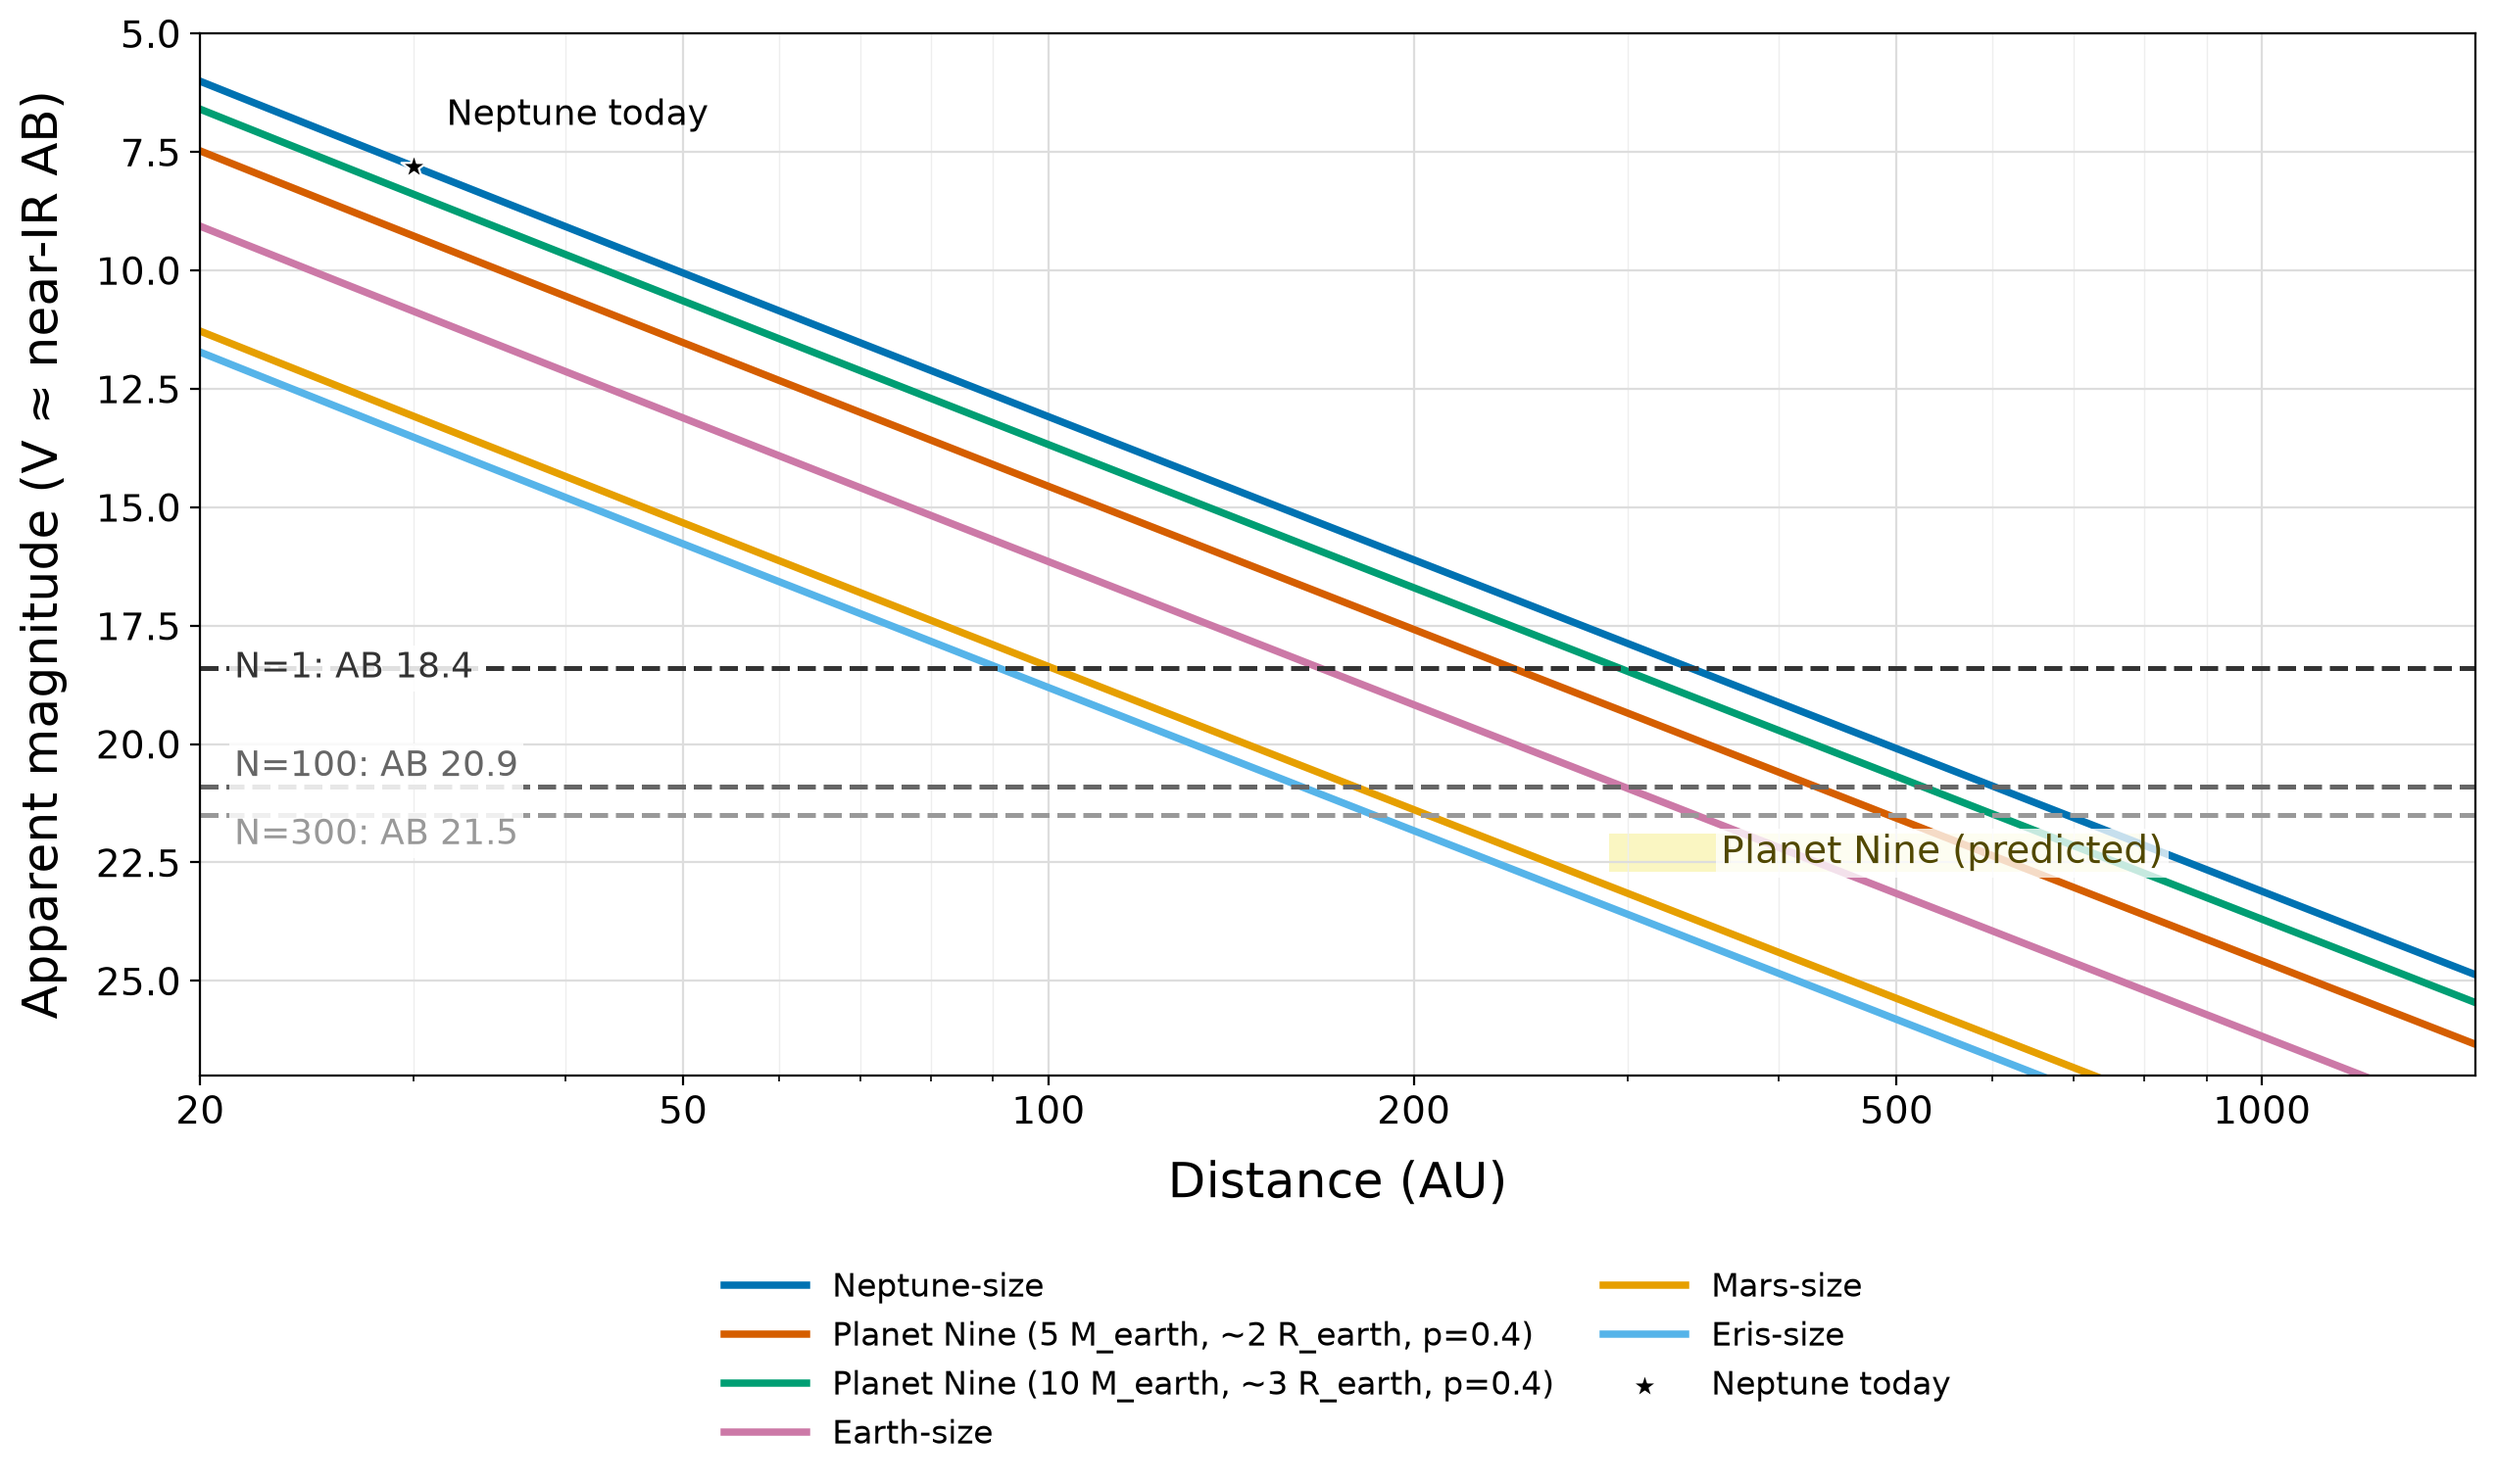
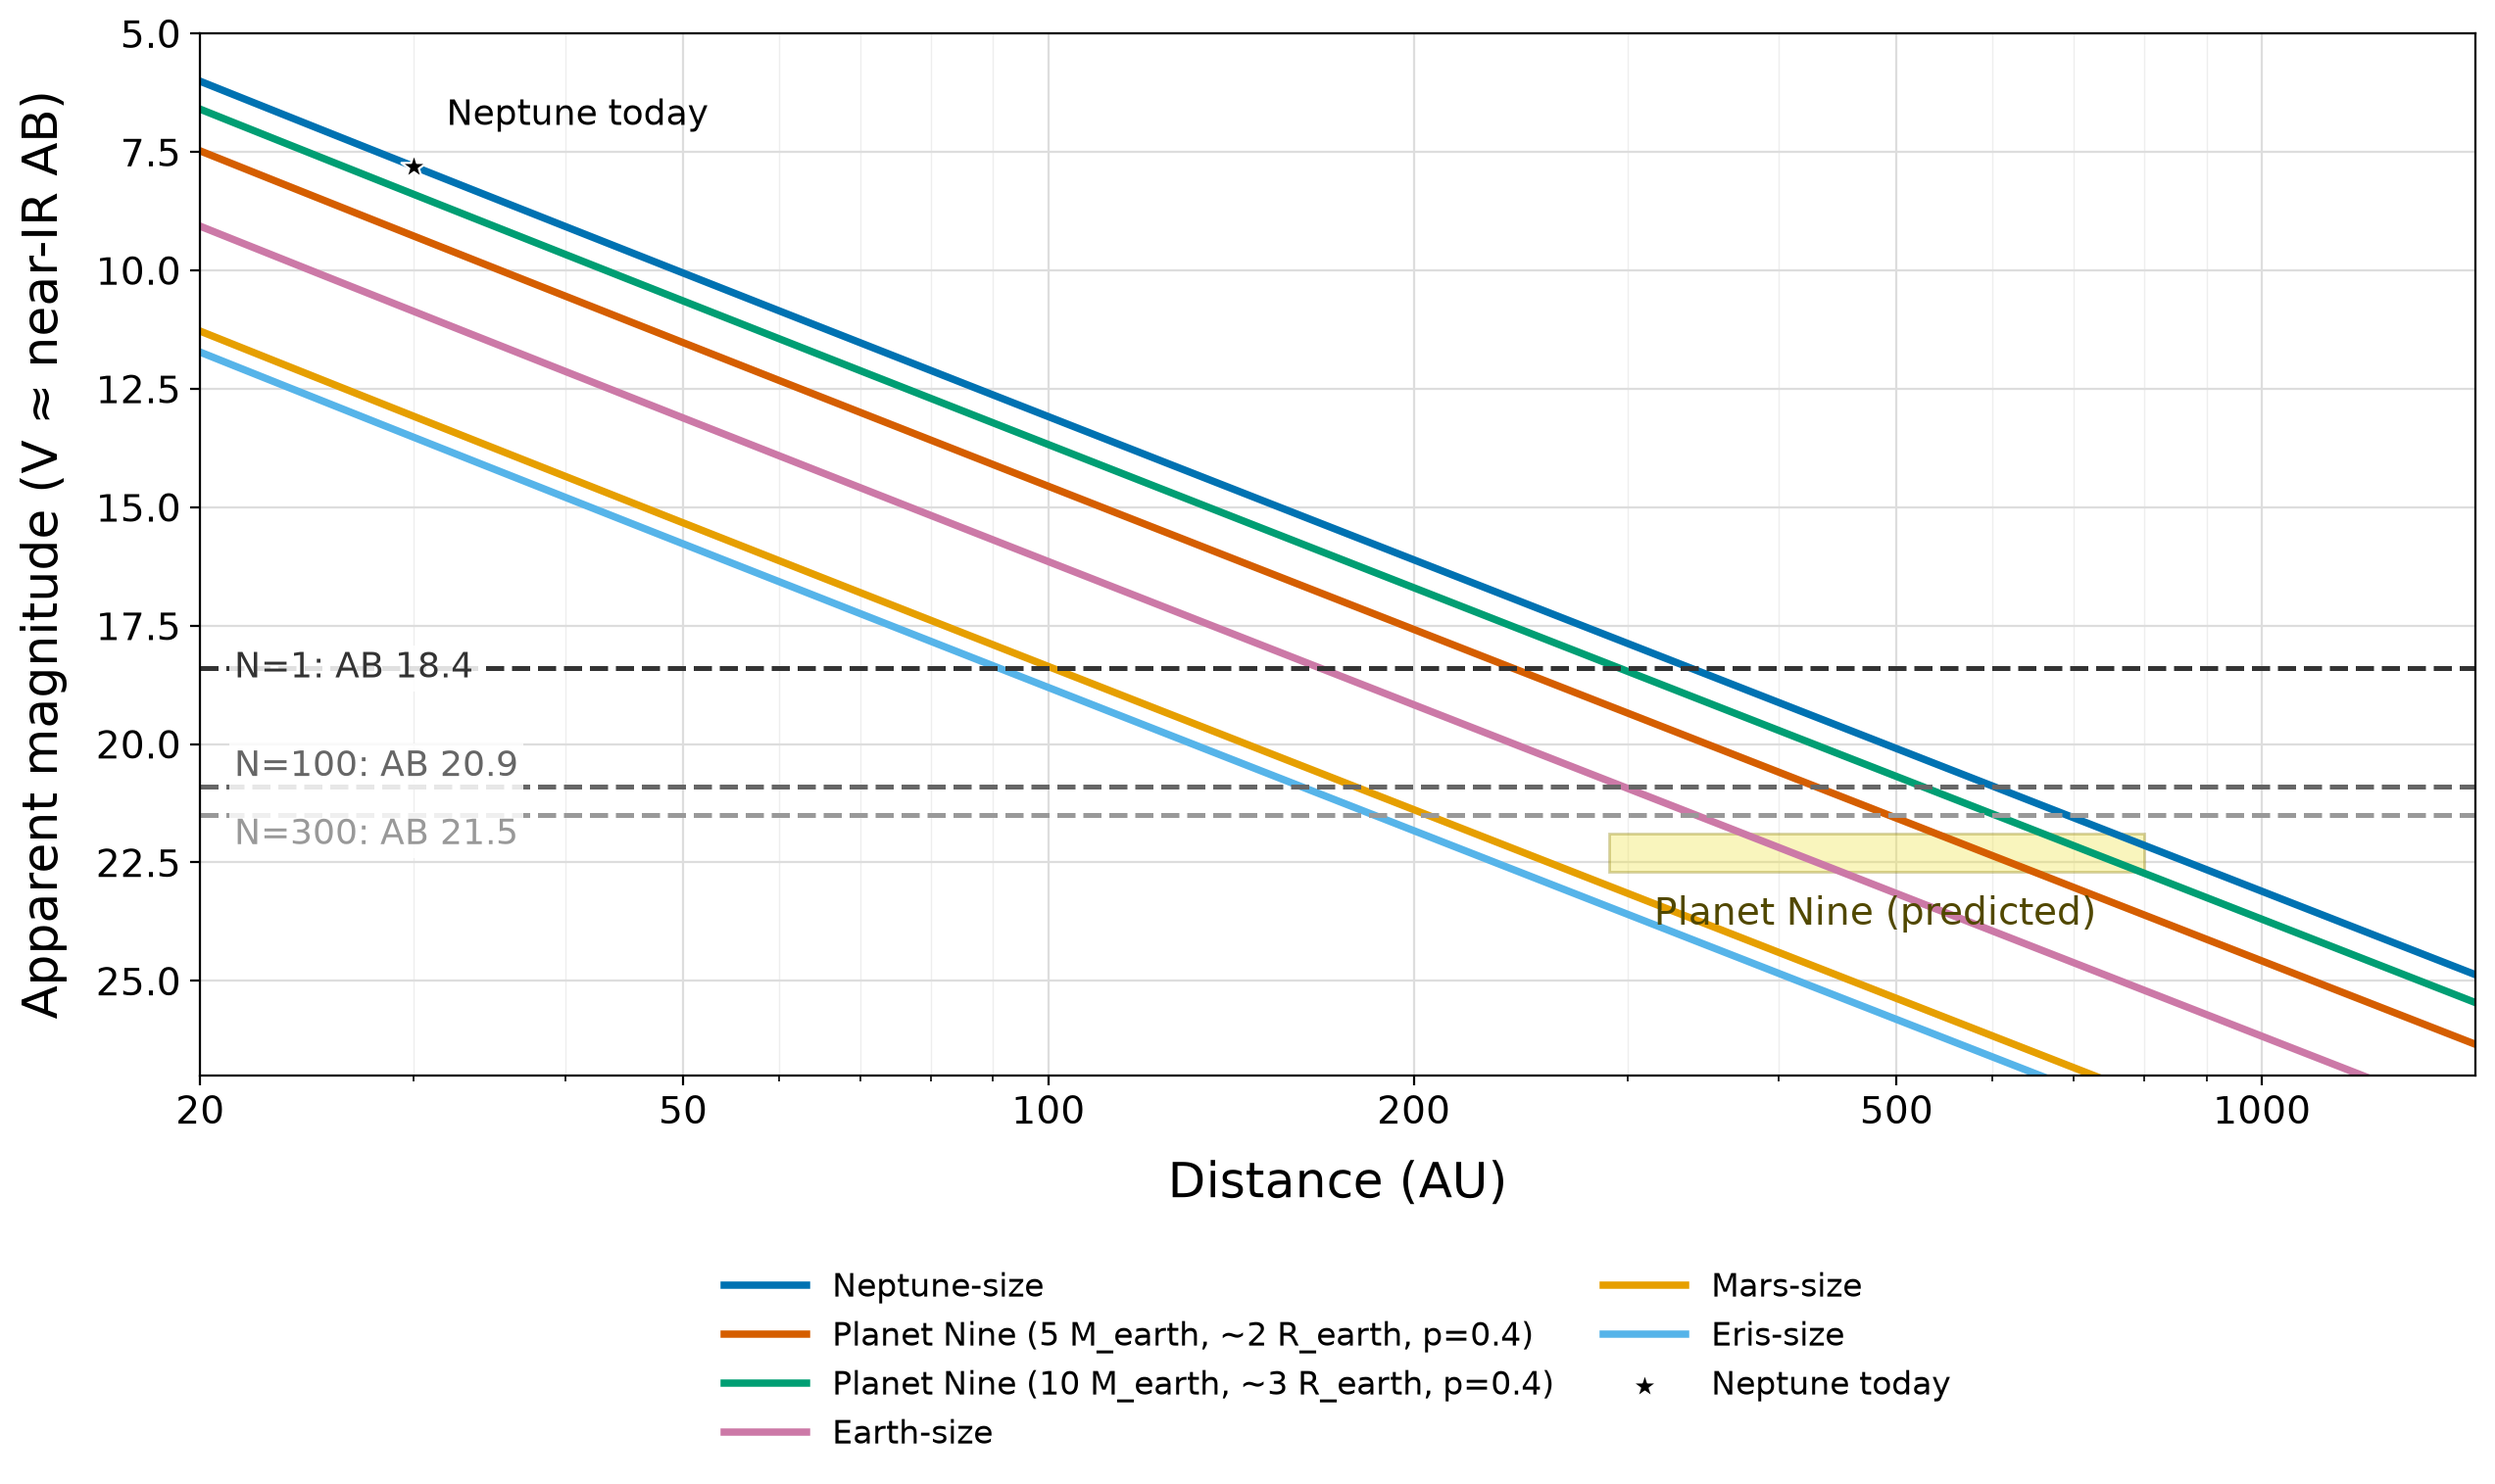
Detectability limits data + slide figure

Changed region(s): [[0.6516, 0.5584, 0.8688, 0.6205]]

diff --git a/pipeline/build_limits.py b/pipeline/build_limits.py
@@ -77,10 +77,9 @@ def make_figure(data: dict) -> None:
                 bbox={"facecolor": "white", "edgecolor": "none", "alpha": 0.85, "pad": 2})
     lo, hi = data["planet_nine_literature"]["V_range"]
     ax.add_patch(Rectangle((290, lo), 510, hi - lo, facecolor="#F0E442",
-                           edgecolor="none", alpha=0.32, zorder=0))
-    ax.text(545, (lo + hi) / 2, "Planet Nine (predicted)", ha="center", va="center",
-            fontsize=14, color="#514800",
-            bbox={"facecolor": "white", "edgecolor": "none", "alpha": 0.78, "pad": 2}, zorder=4)
+                           edgecolor="#8A7D00", linewidth=1.0, alpha=0.35, zorder=1.8))
+    ax.text(480, 23.6, "Planet Nine (predicted)", ha="center", va="center",
+            fontsize=14, color="#514800", zorder=4)
     ax.scatter([30], [7.8], s=95, marker="*", color="#000000", edgecolor="white",
                linewidth=0.8, zorder=5, label="Neptune today")
     ax.annotate("Neptune today", (30, 7.8), xytext=(12, 12), textcoords="offset points",
